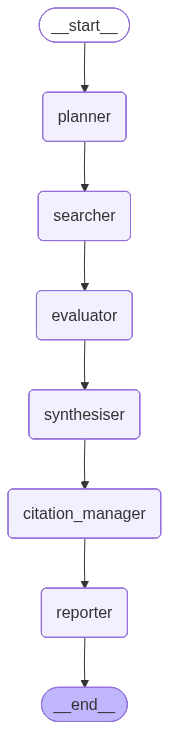
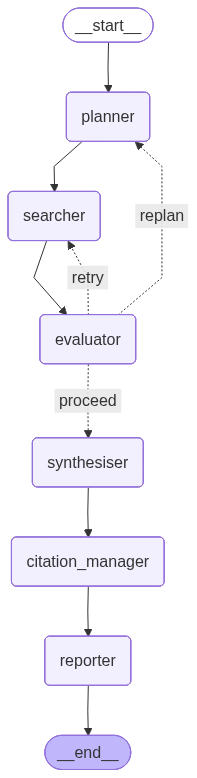
refactor: integrate scoring and confidence services, fix evaluator decision logic, and align with PRD

diff --git a/nodes/evaluator_node.py b/nodes/evaluator_node.py
@@ -1,33 +1,17 @@
 from models.state import ResearchState
 from models.evaluation_models import StepEvaluation, EvaluationResult
 
-THRESHOLD = 0.5
+from services.evaluation.scoring_service import score_results
+from services.evaluation.confidence_service import compute_confidence
+
+THRESHOLD = 0.5  
 MAX_SEARCH_RETRIES = 1
 MAX_REPLANS = 1
-
-
-def score_result(result, query: str) -> float:
-    if isinstance(result, dict):
-        title = result.get("title", "")
-        snippet = result.get("snippet", "")
-    else:
-        title = getattr(result, "title", "")
-        snippet = getattr(result, "snippet", "")
-
-    text = (title + " " + snippet).lower()
-    query_terms = query.lower().split()
-
-    if not query_terms:
-        return 0.0
-
-    match_count = sum(1 for term in query_terms if term in text)
-    return match_count / len(query_terms)
 
 
 def evaluator_node(state: ResearchState) -> ResearchState:
     print("Evaluator Node")
 
-    # execution safety
     if state.node_execution_count >= 12:
         raise Exception("Max node execution limit reached")
 
@@ -40,15 +24,28 @@ def evaluator_node(state: ResearchState) -> ResearchState:
         results = state.search_results.get(step_id, [])
 
         if not results:
-            scores = []
-            avg_score = 0.0
+            confidence = 0.0
             passed = False
+            scores = []
         else:
-            scores = [score_result(r, query) for r in results]
-            avg_score = sum(scores) / len(scores)
-            passed = avg_score >= THRESHOLD
+            # 1. scoring
+            scored_results = score_results(results, query)
 
-        print(f"[EVALUATOR DEBUG] Step {step_id} scores:", scores, "avg:", avg_score)
+            # store back
+            state.search_results[step_id] = scored_results
+
+            # extract scores
+            scores = [r.quality_score for r in scored_results]
+
+            # 2. confidence 
+            confidence = compute_confidence(scored_results)
+
+            # 3. decision based on confidence
+            passed = confidence >= THRESHOLD
+
+        print(f"[EVALUATOR DEBUG] Step {step_id} scores:", scores)
+        print(f"[EVALUATOR DEBUG] Step {step_id} confidence:", confidence)
+        print(f"[DEBUG] Step {step_id} passed: {passed}")
 
         if not passed:
             failed_steps += 1
@@ -56,7 +53,7 @@ def evaluator_node(state: ResearchState) -> ResearchState:
         step_evaluations.append(
             StepEvaluation(
                 step_id=step_id,
-                confidence_score=avg_score,
+                confidence_score=confidence,
                 passed=passed
             )
         )
@@ -65,7 +62,7 @@ def evaluator_node(state: ResearchState) -> ResearchState:
 
     print(f"[EVALUATOR] Total steps: {total_steps}, Failed: {failed_steps}")
 
-    # decision logic (PRD aligned)
+    # Decision logic
     if total_steps == 0:
         decision = "replan"
         state.failure_reason = "No steps evaluated"
@@ -77,7 +74,8 @@ def evaluator_node(state: ResearchState) -> ResearchState:
             state.failure_reason = "All steps failed"
         else:
             decision = "proceed"
-            state.failure_reason = "Max replans reached"
+            state.failure_reason = "All steps failed after max replans"
+            print("[WARNING] Proceeding with low confidence")
 
     elif failed_steps > 0:
         if state.search_retry_count < MAX_SEARCH_RETRIES:

diff --git a/services/evaluation/confidence_service.py b/services/evaluation/confidence_service.py
@@ -1,0 +1,43 @@
+from typing import List
+from models.search_models import SearchResult
+
+
+def compute_confidence(results: List[SearchResult]) -> float:
+    """
+    Computes confidence score based on PRD:
+    - average_score
+    - score consistency (variance)
+    - top-k margin
+    """
+
+    if not results:
+        return 0.0
+
+    scores = [r.quality_score for r in results]
+
+    if not scores:
+        return 0.0
+
+    # average score
+    avg_score = sum(scores) / len(scores)
+
+    # variance (consistency)
+    mean = avg_score
+    variance = sum((s - mean) ** 2 for s in scores) / len(scores)
+    score_consistency = 1 - variance  # normalized
+
+    # top-k margin
+    sorted_scores = sorted(scores, reverse=True)
+    if len(sorted_scores) > 1:
+        top_k_margin = sorted_scores[0] - sorted_scores[1]
+    else:
+        top_k_margin = sorted_scores[0]
+
+    # simple approximation (no embeddings yet)
+    confidence = (
+        0.5 * avg_score +
+        0.3 * score_consistency +
+        0.2 * top_k_margin
+    )
+
+    return max(0.0, min(confidence, 1.0))

diff --git a/app/main.py b/app/main.py
@@ -1,7 +1,7 @@
 from app.agent_runner import run_agent
 
 if __name__ == "__main__":
-    result = run_agent("Difference between CNN and RNN")
+    result = run_agent("What are the latest advancements in renewable energy technologies?")
     print("\nFull Result:\n", result)
     report = result.get("report")
     print("\n" + "="*50)
